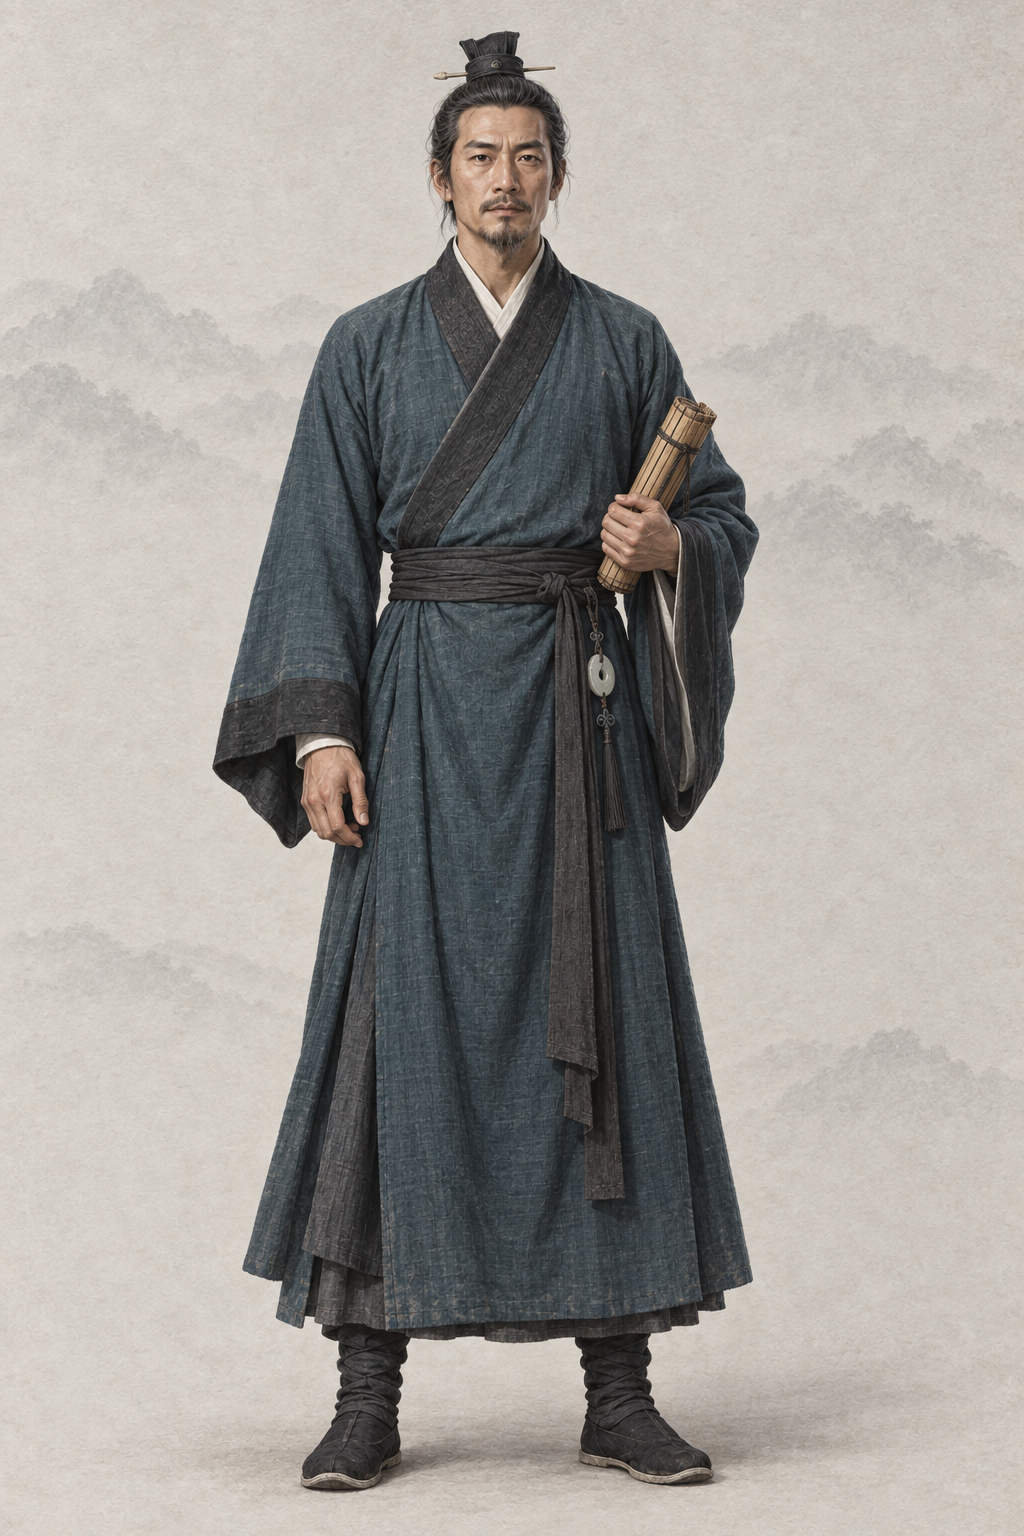
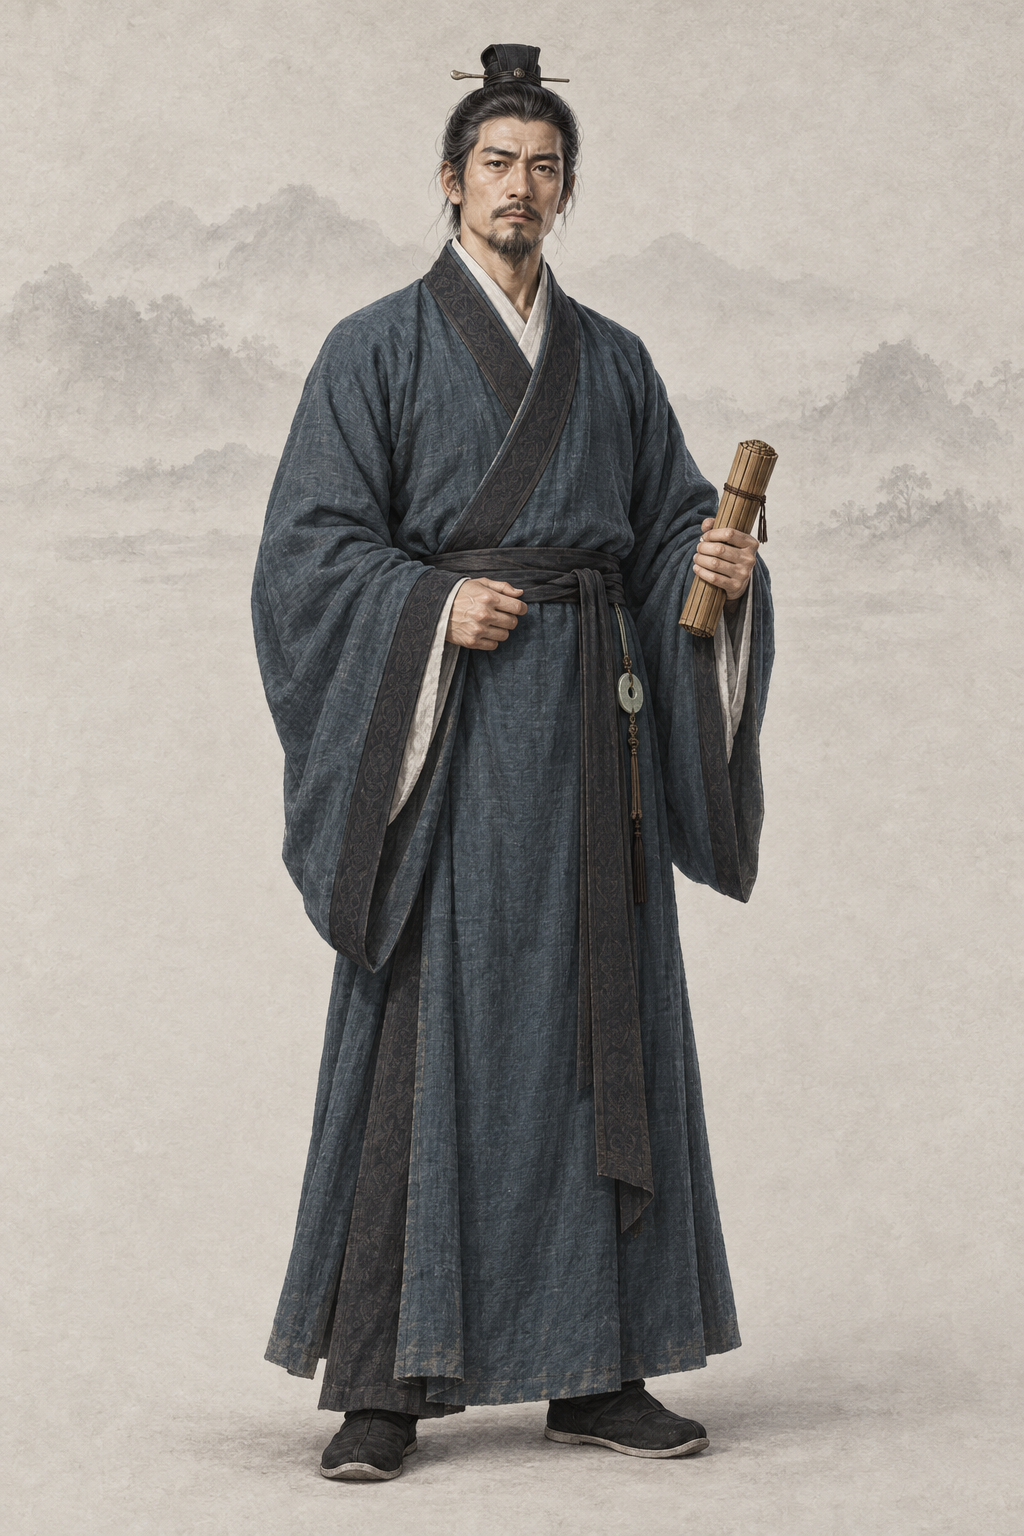
assets(character): por_npc_fanli__ch00_prime_base 范蠡（codex · AR-32 文字 + 基线）
本人无可用剧照或可靠游戏头像，只用文字与两张同性别基线重出；提示词写回、frontmatter 加 classic_ref。

diff --git a/assets/default/prompts/characters/ch00-yuenv/npc_fanli.md b/assets/default/prompts/characters/ch00-yuenv/npc_fanli.md
@@ -11,13 +11,37 @@ manifest: assets/default/character/male/ch00/manifest.yaml
 references: []
 status: new
 redo_reason: "序章越营叙事人物范蠡尚无立绘与提示词，按春秋越国士大夫形象补出"
+codex_prompt_rev: 2026-10-02
 reference_upload:
 - assets/default/baseline/character/male/ref_npc_linghuchong__ch05_base01.png
+- assets/default/baseline/character/male/ref_npc_xiaofeng__ch01_base01.png
+classic_ref: "无（1986 亚视《越女剑》只找到一张无逐人图注的 VCD 封面，不能确认是范蠡，未采用；只用文字与基线）"
 ---
 
 # 范蠡 · 基础立绘（2026-10-02 新建）
 
 ## Gemini 提示词
+
+> 2026-10-02 AR-32 重出（8 号出图员，codex exec · image_gen）：本人没有可用的经典剧照或可靠游戏头像，只用文字与两张同性别画风基线（缩小版 JPEG，放在最后上传）；按原著与设定重写人物描写，去 AI 味、禁止幼态。上一版保留在下一节作历史。
+
+```text
+生成一张 2:3 竖幅全身人物立绘：单人、单一视角、完整全身——头顶、双手、双脚和手中器物的两端都在画面内，四周留出自然空白；人物站姿自然，身体基本朝向正面，头部端正（不歪头、不仰不俯），镜头平视。
+【参考图】随提示词上传的两张参考图都是本项目的立绘画风基线：画风、用色、光线、质感和暖浅灰纸底加淡水墨背景以它们为准；它们只管画风，不取长相、年龄、发型、服饰和姿势。人物的长相和造型完全按下面的文字来画。
+【画风】写实手绘古风人物插画，与本项目写实武侠角色立绘同一画风，像功力深厚的画师用细腻笔触画出的真实人物。手绘插画质感，不是 CG 渲染：不要过度光滑的皮肤、完美对称的五官、塑料高光、过度锐利的发丝；保留自然的笔触和细微不完美。皮肤有真实质感——细小毛孔、细纹、晒痕和自然的左右不对称，不磨皮、不油亮；头发是一缕缕自然的发丝和少量碎发；布料看得出经纬纹理、厚薄和自然垂坠的褶皱，带穿用过的轻微旧化，但完整不破烂；整体设色低饱和、沉稳；柔和的自然光从左上方照来，明暗过渡自然，不打舞台光、轮廓光或美颜柔光。不是照片，不是三维渲染，不是动漫或游戏 CG，也不是油画（没有厚涂笔触和画布纹理）。
+【背景】不透明的暖浅灰色纸底，只在远处有极淡的水墨远山和薄雾，大面积留白；人物与背景明暗分明、轮廓边缘干净完整（后续要自动抠图），水墨和纸纹只在背景里，不侵入人物和衣服；脚下只有很淡的一点接触阴影。
+【人物】范蠡，《越女剑》中越王勾践的上大夫，春秋末越国（约公元前 482 年）；在越营请阿青教越军剑法，是序章越营一段的叙事人物。
+【年龄与体态】约四十五岁的中年男子，中等偏高、身形清瘦挺拔，举止从容。
+【经典造型】儒雅深沉的越国谋臣：深青宽袖深衣、黑色小冠、腰悬素玉、手执竹简；眉目清朗、短须整齐，目光深远，带着不轻易流露的忧思——儒雅而有风度的美男子。
+【面容】长脸、额头宽阔，眉目清朗、眉毛修长；眼睛细长、目光深沉而有远虑；鼻梁高直；唇上与下巴留修剪整齐的短须，鬓角已有几丝灰白，眼角有细纹；神情儒雅、干练。
+【发式】黑发在头顶束髻，戴一顶简朴的黑色小冠，以骨笄横贯固定。
+【服饰】春秋士大夫的深衣式长袍：深青色交领右衽，宽袖，衣缘有窄的玄色镶边，腰束丝质大带、带端垂下，腰侧系一块素玉佩；脚穿黑色布履。不画成汉以后或宋明的官服。
+【道具】左手持一卷合拢的竹简；右手轻拢袖口。
+【姿态与神情】正面站立，身姿端正、从容不迫，目光平视前方，像在权衡一件大事。
+【不要】画面里不要任何文字、题款、印章、签名、水印、边框、分格或多视图；不要第二个人；不要幼态（童颜、娃娃脸、婴儿肥、儿童或少年身材、大头小身）；不要塑料感皮肤、磨皮美颜、网红脸（尖下巴大眼高鼻的模板脸）、过度对称、浓妆、偶像式打光、蜡像感；不要照片质感、三维渲染或动漫大眼；不要歪头、斜镜头；不要多指、缺指（设定的伤残除外）、手与器物粘连或悬空；衣襟必须右衽（穿着者的左襟压在右襟上），不要左衽（设定为少数民族服制的除外），不要水平镜像；不要现代物品、发光特效、法阵或能量光。不要盔甲、长剑或兵符；不要宋明清服饰和乌纱帽；不要第二个人（西施只在剧情中被提及，不入画）。
+【画风基线】随提示词上传的参考图里，最后两张是本项目的立绘画风基线：只参考它们的画风、用色、光线、质感和暖浅灰纸底加淡水墨的背景处理，整体画风必须与它们一致——精细写实的数字手绘插画，不是油画，不要厚涂笔触和画布纹理。基线图只取画风，不取长相：不要照搬基线图里人物的长相、年龄、发型、服饰和姿势。
+```
+
+## 上一版 Gemini 提示词（2026-10-02 凌晨；AR-32 重出之前，历史，不再用于出图）
 
 > 2026-10-02 重要人物立绘重审（A 组，`tools/agents/reports/REVIEW-portraits-A-ch00-04.md`）：**补出**。序章越营叙事人物范蠡尚无立绘与提示词，按春秋越国士大夫形象补出。
 > 本条不上传任何参考图（`reference_upload: []`）；本条为 2026-10-02 新建，出图只用本节代码块。
